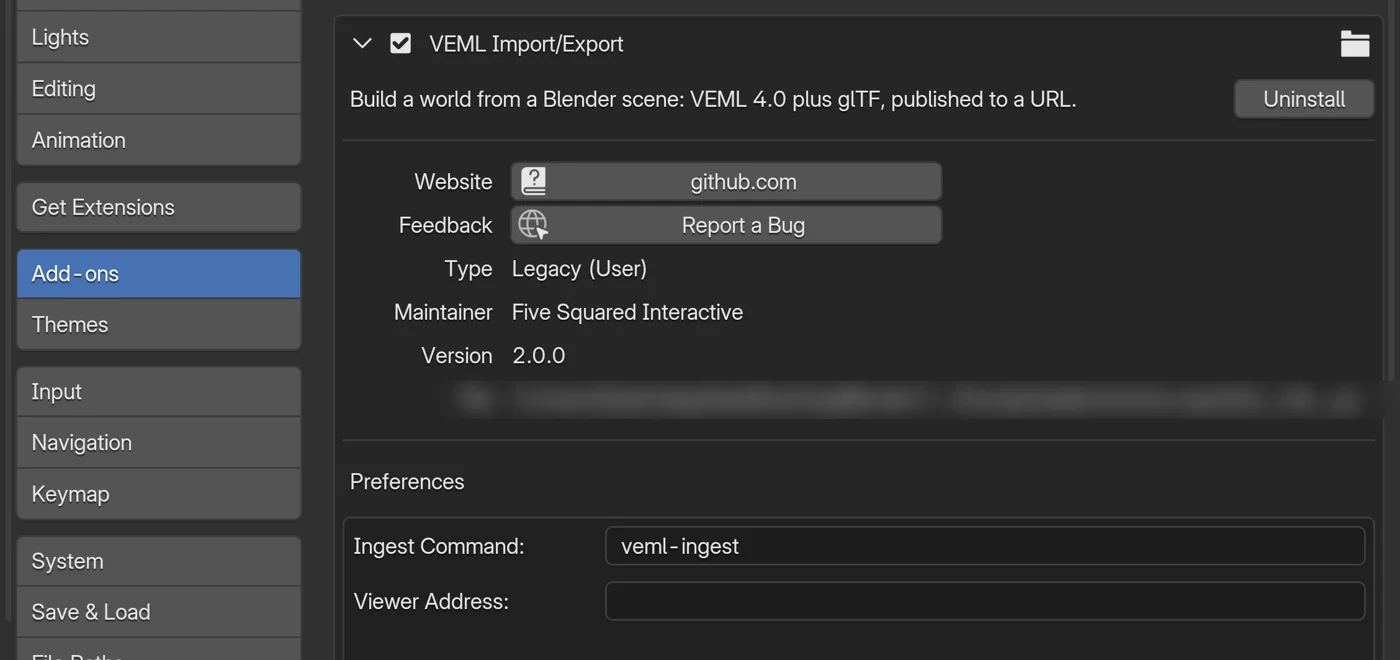
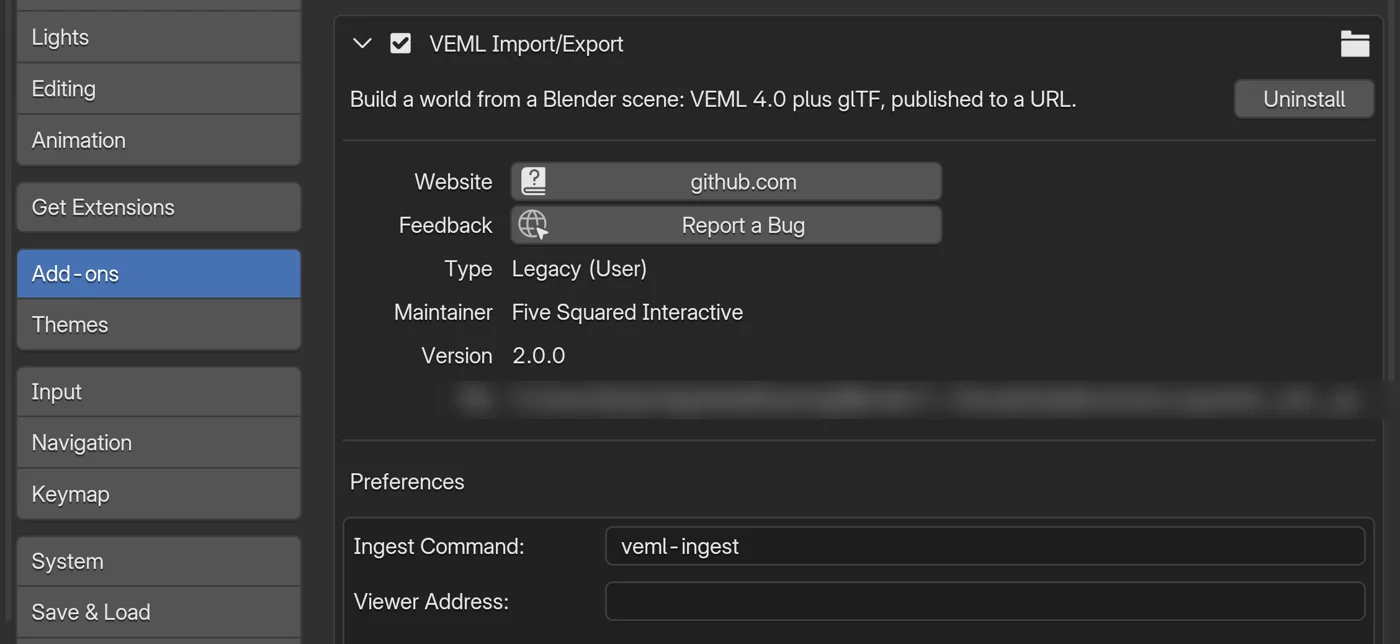
The add-ons picture ends below its last whole row
Claude-Session: https://claude.ai/code/session_01JEXdKrMUU9cRCMMXynotbZ

diff --git a/src/pages/FirstWorld.jsx b/src/pages/FirstWorld.jsx
@@ -65,7 +65,7 @@ const FirstWorld = () => {
           </div>
           <div className="grid-3-steps">
             <div className="step-tile">
-              <img className="tile-img" src="/images/blender-addons-list.webp" alt="Blender's Add-ons list with the VEML add-on ticked" width="1400" height="660" loading="lazy" />
+              <img className="tile-img" src="/images/blender-addons-list.webp" alt="Blender's Add-ons list with the VEML add-on ticked" width="1400" height="644" loading="lazy" />
               <h3><span className="step-n">1</span> Install the add-on</h3>
               <p>Blender 4.5 or newer. Sign in once with Google, GitHub or an emailed link.</p>
             </div>
